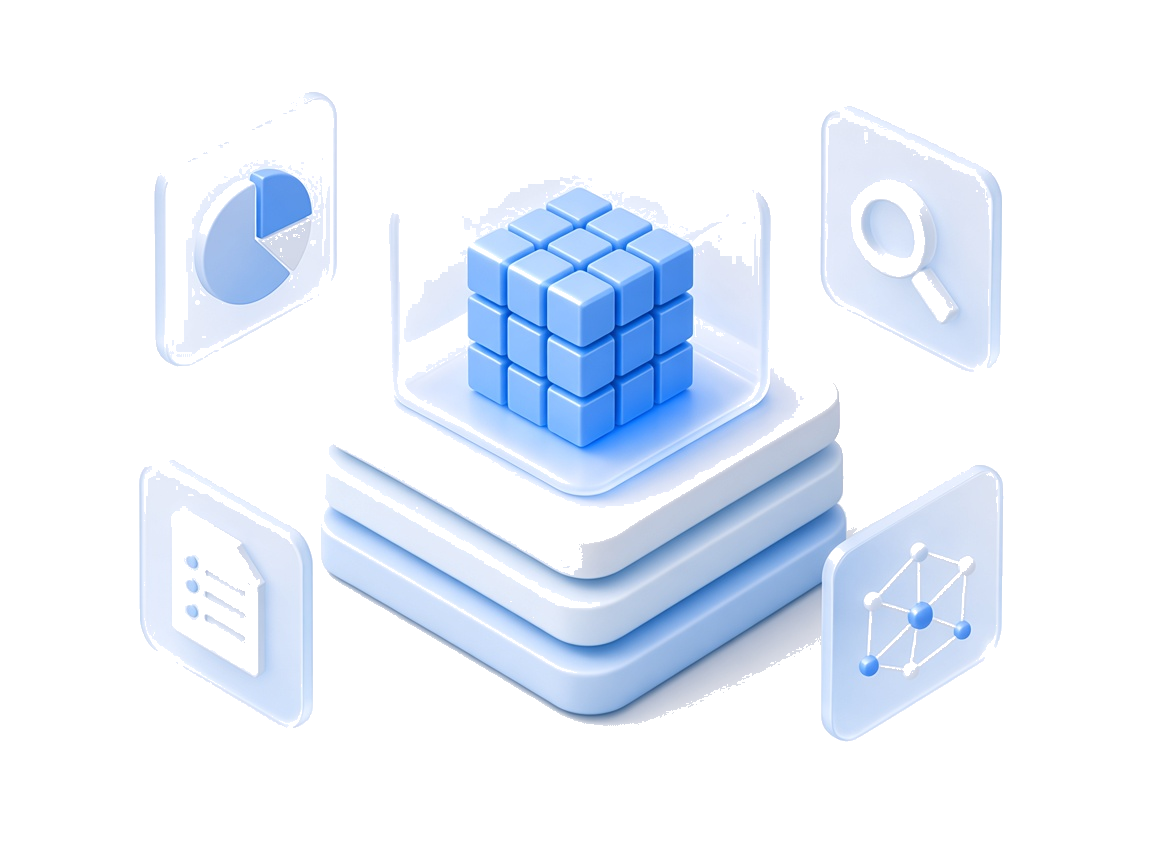
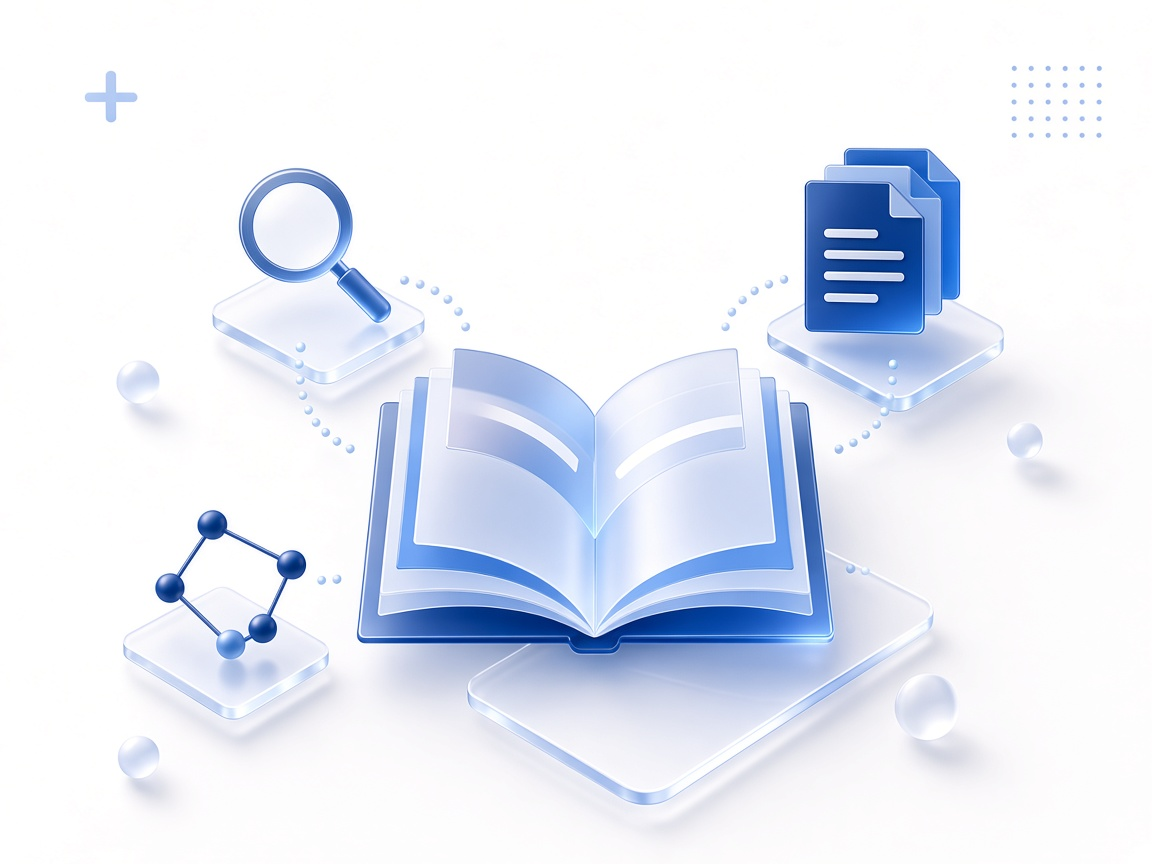
style(auth): 更新登录页插画并优化品牌区布局
替换毛玻璃风格 hero 图，调整左右分栏比例与标题描述间距

diff --git a/src/pages/Auth/index.module.scss b/src/pages/Auth/index.module.scss
@@ -5,30 +5,31 @@
 }
 
 .brand {
-  flex: 1;
+  flex: 1.1;
   display: flex;
   align-items: center;
-  justify-content: center;
-  padding: 48px 40px;
+  justify-content: flex-end;
+  min-width: 0;
+  padding: 48px 56px 48px 48px;
   background: #fff;
 }
 
 .brandInner {
   width: 100%;
-  max-width: 520px;
+  max-width: 540px;
 }
 
 .brandTitle {
-  margin: 0 0 16px;
+  margin: 0 0 12px 30px;
   color: #1f1f1f;
-  font-size: 36px;
+  font-size: 34px;
   font-weight: 700;
   line-height: 1.3;
   letter-spacing: 0.02em;
 }
 
 .brandDesc {
-  margin: 0 0 40px;
+  margin: 0 0 32px 30px;
   color: #8c8c8c;
   font-size: 15px;
   line-height: 1.8;
@@ -37,8 +38,7 @@
 .brandHero {
   display: block;
   width: 100%;
-  max-width: 460px;
-  margin: 0 auto;
+  max-width: 480px;
   height: auto;
   object-fit: contain;
   user-select: none;
@@ -50,7 +50,8 @@
   display: flex;
   align-items: center;
   justify-content: center;
-  padding: 48px 24px;
+  min-width: 0;
+  padding: 48px 48px 48px 32px;
   background: #fff;
 }
 
@@ -91,13 +92,41 @@
   font-size: 14px;
 }
 
+@media (max-width: 1100px) {
+  .brand {
+    padding: 40px 32px 40px 32px;
+  }
+
+  .brandTitle {
+    font-size: 30px;
+  }
+
+  .brandInner {
+    max-width: 480px;
+  }
+
+  .brandHero {
+    max-width: 420px;
+  }
+
+  .panel {
+    padding: 40px 32px;
+  }
+}
+
 @media (max-width: 900px) {
   .page {
     flex-direction: column;
   }
 
   .brand {
-    padding: 40px 24px 24px;
+    flex: none;
+    justify-content: center;
+    padding: 40px 24px 16px;
+  }
+
+  .brandInner {
+    max-width: 480px;
   }
 
   .brandTitle {
@@ -111,7 +140,8 @@
   }
 
   .brandHero {
-    max-width: 320px;
+    max-width: 360px;
+    margin-inline: auto;
   }
 
   .panel {
